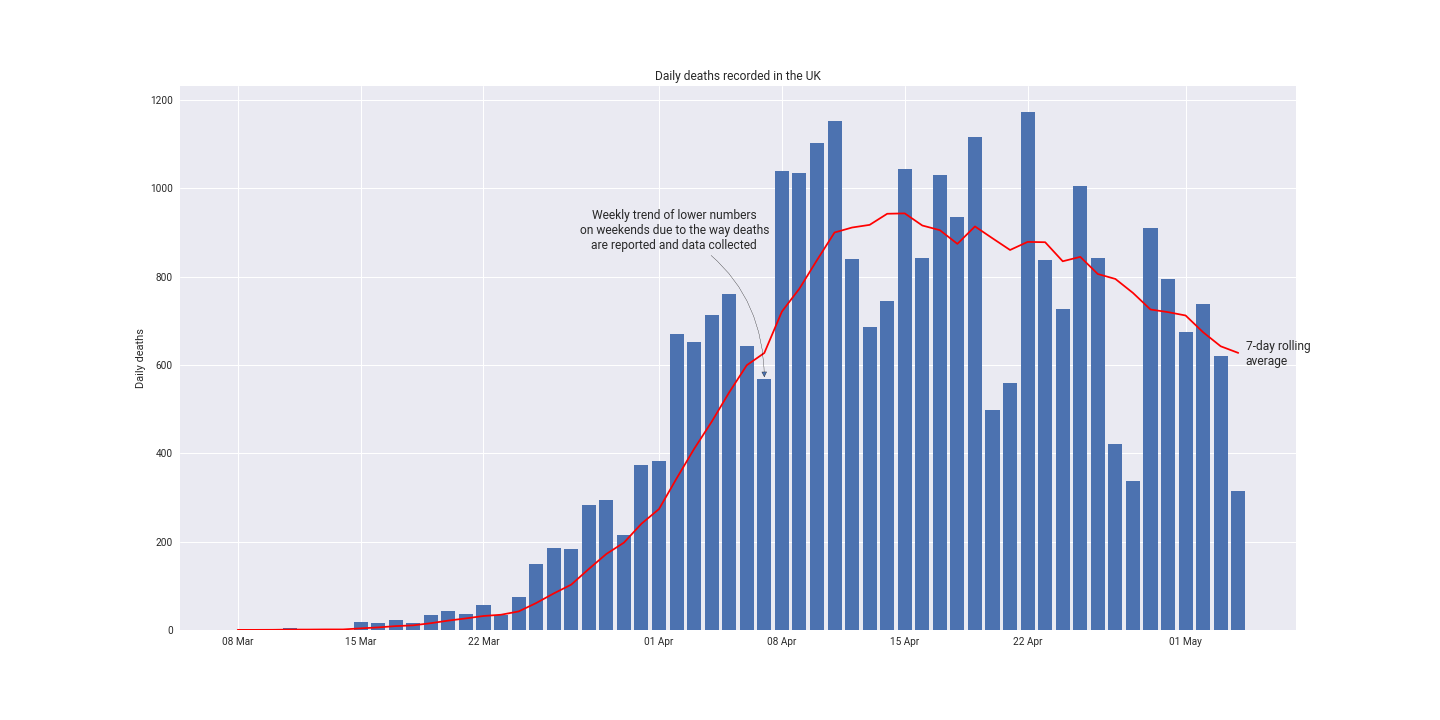
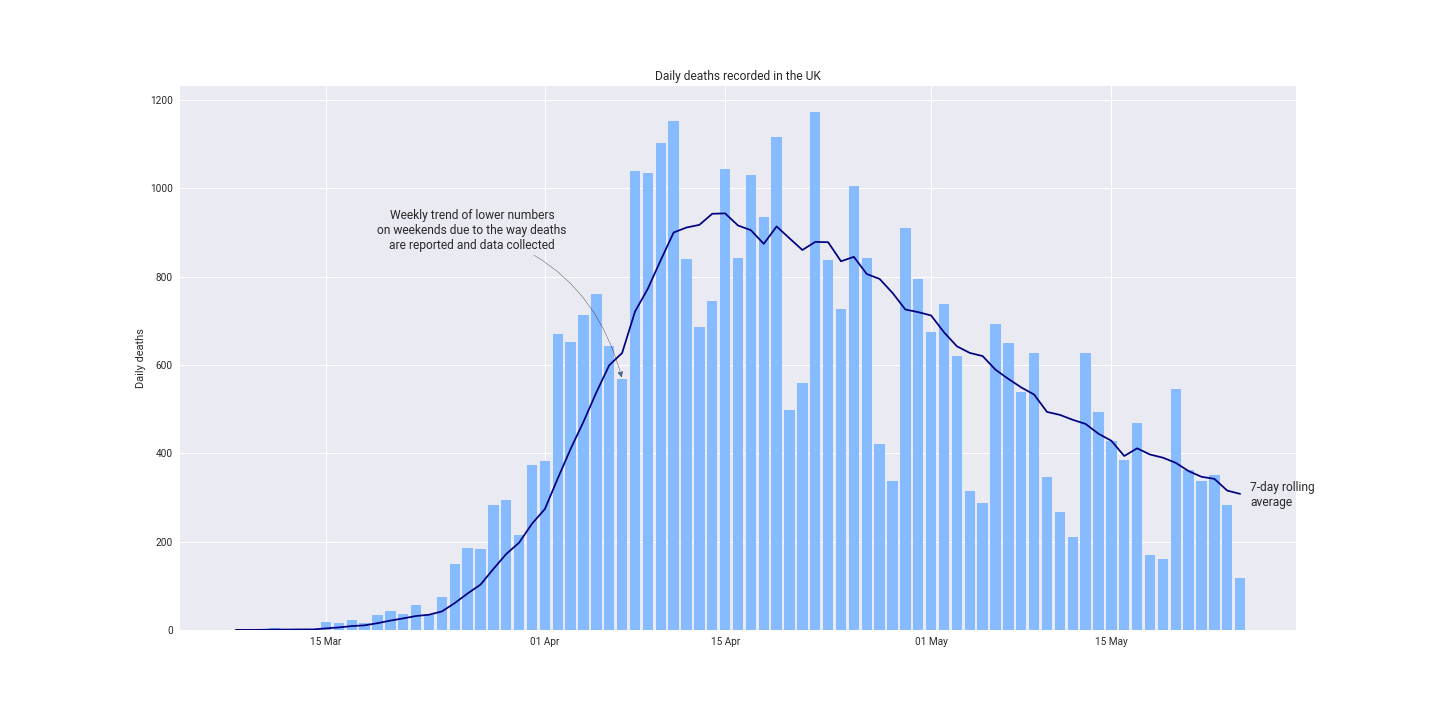
Graphs updated and category added

Changed region(s): [[0.2188, 0.1528, 0.9062, 0.9167], [0.1562, 0.8861, 0.1875, 0.9167]]

diff --git a/_posts/2020-05-25-deaths-in-the-uk-coronovirus.md b/_posts/2020-05-25-deaths-in-the-uk-coronovirus.md
@@ -1,19 +1,19 @@
 ---
 layout: post
 title:  "Matplotlib graph: deaths per day in the UK due to Covid-19"
-categories: python
+categories: [python, data visualisation]
 location: London, UK
 location-link: london
 ---
 
 Using the wealth of data coming in to play with some of Python's visualisation modules. This graph was created using a dataset readily available [here](https://www.ecdc.europa.eu/en/publications-data/download-todays-data-geographic-distribution-covid-19-cases-worldwide) from the European Centre for Disease Prevention and Control (ECDC).
 
-This graph was created using the [Matplotlib.pyplot](https://matplotlib.org/api/pyplot_api.html) module. It's a 'MATLAB-like plotting framework', MATLAB being a popular software/environment/language used by many over the past 30 years.
+Click the image to open fully.
+
+[![Daily Deaths graph ><]({{site.baseurl}}/assets/img/Daily deaths in the UK.png)]({{site.baseurl}}/assets/img/Daily deaths in the UK (larger).png){:target="_blank"}
 
 <!--description-->
 
 The graph shows the downward trend in the number of deaths recorded and hopefully that we are over the peak.
 
-Click the image to open fully.
-
-[![Daily Deaths graph ><]({{site.baseurl}}/assets/img/Daily deaths in the UK.png)]({{site.baseurl}}/assets/img/Daily deaths in the UK (larger).png){:target="_blank"} 
+This graph was created using the [Matplotlib.pyplot](https://matplotlib.org/api/pyplot_api.html) module. It's a 'MATLAB-like plotting framework', MATLAB being a popular software/environment/language used by many over the past 30 years.

diff --git a/_posts/2019-07-04-the-power-of-habit.md b/_posts/2019-07-04-the-power-of-habit.md
@@ -2,7 +2,7 @@
 layout: post
 title:  "The Power of Habit"
 date: 2019-07-04 15:00:00 +0600
-categories: book-reviews
+categories: [book reviews]
 location: Santa Cruz de la Sierra, Bolivia
 location-link: Santa+Cruz+de+la+Sierra
 ---
